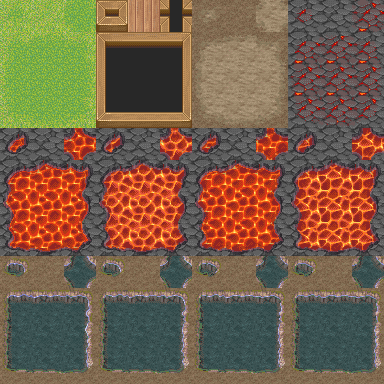
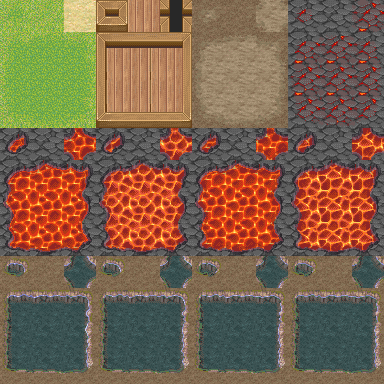
2014/5/30 02:09 commit

Changed region(s): [[0.25, 0.125, 0.5, 0.3125], [0.1562, 0.0, 0.25, 0.0938]]

diff --git a/games/rpg_game/map_data.js b/games/rpg_game/map_data.js
@@ -1,38 +1,38 @@
 //圖片標準(每一個36px)
 //背景圖片陣列12X12(每一個36px) 0可通過 1不可通過
 var back_ground = 
-    {"0000":0,"0001":0,"0002":0,"0003":1,"0004":0,"0005":1,"0006":0,"0007":0,"0008":0,"0009":0,"0010":0,"0011":0,
-     "0100":0,"0101":0,"0102":0,"0103":1,"0104":1,"0105":1,"0106":0,"0107":0,"0108":0,"0109":0,"0110":0,"0111":0,
-     "0200":0,"0201":0,"0202":0,"0203":1,"0204":1,"0205":1,"0206":0,"0207":0,"0208":0,"0209":0,"0210":0,"0211":0,
-     "0300":0,"0301":0,"0302":0,"0303":1,"0304":1,"0305":1,"0306":0,"0307":0,"0308":0,"0309":0,"0310":0,"0311":0,
-     "0400":1,"0401":0,"0402":1,"0403":1,"0404":1,"0405":1,"0406":1,"0407":0,"0408":1,"0409":1,"0410":0,"0411":0,
-     "0500":1,"0501":1,"0502":1,"0503":1,"0504":1,"0505":1,"0506":1,"0507":1,"0508":1,"0509":1,"0510":1,"0511":1,
-     "0600":1,"0601":1,"0602":1,"0603":1,"0604":1,"0605":1,"0606":1,"0607":1,"0608":1,"0609":1,"0610":1,"0611":1,
-     "0700":1,"0701":1,"0702":1,"0703":1,"0704":1,"0705":1,"0706":1,"0707":1,"0708":1,"0709":1,"0710":1,"0711":1,
-     "0800":1,"0801":0,"0802":1,"0803":1,"0804":0,"0805":1,"0806":1,"0807":0,"0808":1,"0809":1,"0810":0,"0811":1,
-     "0900":1,"0901":1,"0902":1,"0903":1,"0904":1,"0905":1,"0906":1,"0907":1,"0908":1,"0909":1,"0910":1,"0911":1,
-     "1000":1,"1001":1,"1002":1,"1003":1,"1004":1,"1005":1,"1006":1,"1007":1,"1008":1,"1009":1,"1010":1,"1011":1,
-     "1100":1,"1101":1,"1102":1,"1103":1,"1104":1,"1105":1,"1106":1,"1107":1,"1108":1,"1109":1,"1110":1,"1111":1,
+    {"0000":0,"0100":0,"0200":0,"0300":1,"0400":0,"0500":1,"0600":0,"0700":0,"0800":0,"0900":0,"1000":0,"1100":0,
+     "0001":0,"0101":0,"0201":0,"0301":1,"0401":1,"0501":1,"0601":0,"0701":0,"0801":0,"0901":0,"1001":0,"1101":0,
+     "0002":0,"0102":0,"0202":0,"0302":1,"0402":1,"0502":1,"0602":0,"0702":0,"0802":0,"0902":0,"1002":0,"1102":0,
+     "0003":0,"0103":0,"0203":0,"0303":1,"0403":1,"0503":1,"0603":0,"0703":0,"0803":0,"0903":0,"1003":0,"1103":0,
+     "0004":1,"0104":0,"0204":1,"0304":1,"0404":1,"0504":1,"0604":1,"0704":0,"0804":1,"0904":1,"1004":0,"1104":0,
+     "0005":1,"0105":1,"0205":1,"0305":1,"0405":1,"0505":1,"0605":1,"0705":1,"0805":1,"0905":1,"1005":1,"1105":1,
+     "0006":1,"0106":1,"0206":1,"0306":1,"0406":1,"0506":1,"0606":1,"0706":1,"0806":1,"0906":1,"1006":1,"1106":1,
+     "0007":1,"0107":1,"0207":1,"0307":1,"0407":1,"0507":1,"0607":1,"0707":1,"0807":1,"0907":1,"1007":1,"1107":1,
+     "0008":1,"0108":0,"0208":1,"0308":1,"0408":0,"0508":1,"0608":1,"0708":0,"0808":1,"0908":1,"1008":0,"1108":1,
+     "0009":1,"0109":1,"0209":1,"0309":1,"0409":1,"0509":1,"0609":1,"0709":1,"0809":1,"0909":1,"1009":1,"1109":1,
+     "0010":1,"1110":1,"1210":1,"1310":1,"1410":1,"1510":1,"1610":1,"1710":1,"1810":1,"1910":1,"1010":1,"1110":1,
+     "0011":1,"1111":1,"1211":1,"1311":1,"1411":1,"1511":1,"1611":1,"1711":1,"1811":1,"1911":1,"1011":1,"1111":1,
     }
 
 //地圖25X12(每一個36px)
 //崔斯特姆
-var Tristram = 
+var tristram = 
 	{
         "map_name" : "Tristram/崔斯特姆",
         "map_date" :
             [
-                ["0000","0000","0000","0000","0000","0000","0000","0000","0000","0000","0000","0000","0000","0000","0000","0000","0000","0000","0000","0000","0000","0000","0000","0000","0000",],
-                ["0000","0000","0000","0000","0000","0000","0000","0000","0000","0000","0000","0000","0000","0000","0000","0000","0000","0000","0000","0000","0000","0000","0000","0000","0000",],
-                ["0000","0000","0000","0000","0000","0000","0000","0000","0000","0000","0000","0000","0000","0000","0000","0000","0000","0000","0000","0000","0000","0000","0000","0000","0000",],
-                ["0000","0000","0000","0000","0000","0000","0000","0000","0000","0000","0000","0000","0000","0000","0000","0000","0000","0000","0000","0000","0000","0000","0000","0000","0000",],
-                ["0000","0000","0000","0000","0000","0000","0000","0000","0000","0000","0000","0000","0000","0000","0000","0000","0000","0000","0000","0000","0000","0000","0000","0000","0000",],
-                ["0000","0000","0000","0000","0000","0000","0000","0000","0000","0000","0000","0000","0000","0000","0000","0000","0000","0000","0000","0000","0000","0000","0000","0000","0000",],
-                ["0000","0000","0000","0000","0000","0000","0000","0000","0000","0000","0000","0000","0000","0000","0000","0000","0000","0000","0000","0000","0000","0000","0000","0000","0000",],
-                ["0000","0000","0000","0000","0000","0000","0000","0000","0000","0000","0000","0000","0000","0000","0000","0000","0000","0000","0000","0000","0000","0000","0000","0000","0000",],
-                ["0000","0000","0000","0000","0000","0000","0000","0000","0000","0000","0000","0000","0000","0000","0000","0000","0000","0000","0000","0000","0000","0000","0000","0000","0000",],
-                ["0000","0000","0000","0000","0000","0000","0000","0000","0000","0000","0000","0000","0000","0000","0000","0000","0000","0000","0000","0000","0000","0000","0000","0000","0000",],
-                ["0000","0000","0000","0000","0000","0000","0000","0000","0000","0000","0000","0000","0000","0000","0000","0000","0000","0000","0000","0000","0000","0000","0000","0000","0000",],
+                ["0000","0301","0401","0401","0401","0401","0401","0501","0000","0000","0000","0000","0000","0000","0000","0000","0301","0401","0401","0401","0401","0401","0501","0000","0000",],
+                ["0000","0302","0400","0400","0400","0400","0400","0502","0000","0000","0000","0000","0000","0000","0000","0000","0302","0400","0400","0400","0400","0400","0502","0000","0000",],
+                ["0000","0302","0400","0400","0400","0400","0400","0502","0000","0000","0000","0000","0000","0000","0000","0000","0302","0400","0400","0400","0400","0400","0502","0000","0000",],
+                ["0000","0302","0400","0400","0400","0400","0400","0502","0000","0000","0000","0000","0000","0000","0000","0000","0302","0400","0400","0400","0400","0400","0502","0000","0000",],
+                ["0000","0302","0400","0400","0400","0400","0400","0502","0000","0000","0000","0000","0000","0000","0000","0000","0302","0400","0400","0400","0400","0400","0502","0000","0000",],
+                ["0000","0303","0403","0403","0400","0403","0403","0503","0000","0000","0000","0000","0000","0000","0000","0000","0303","0403","0403","0400","0403","0403","0503","0000","0000",],
+                ["0000","0000","0000","0000","0200","0000","0000","0000","0000","0000","0000","0000","0000","0000","0000","0000","0000","0000","0000","0200","0000","0000","0000","0000","0000",],
+                ["0000","0000","0000","0000","0200","0000","0000","0000","0000","0000","0000","0000","0000","0000","0000","0000","0000","0000","0000","0200","0000","0000","0000","0000","0000",],
+                ["0300","0000","0000","0000","0200","0000","0000","0000","0000","0000","0000","0000","0000","0000","0000","0000","0000","0000","0000","0200","0000","0000","0000","0000","0000",],
+                ["0200","0200","0200","0200","0200","0200","0200","0200","0200","0200","0200","0200","0200","0200","0200","0200","0200","0200","0200","0200","0000","0000","0000","0000","0000",],
+                ["0300","0000","0000","0000","0000","0000","0000","0000","0000","0000","0000","0000","0000","0000","0000","0000","0000","0000","0000","0000","0000","0000","0000","0000","0000",],
                 ["0000","0000","0000","0000","0000","0000","0000","0000","0000","0000","0000","0000","0000","0000","0000","0000","0000","0000","0000","0000","0000","0000","0000","0000","0000",],
             ]
     }

diff --git a/games/rpg_game/map_build.js b/games/rpg_game/map_build.js
@@ -4,28 +4,36 @@ function draw_map() {
     var back_ground = document.getElementById("back_ground");
     //每個區塊為32x32
     var block = 32;
-    var i,j,str_i,str_j
-    
-    for(i = 0; i < 25; i++ ) {
-        for (j = 0; j < 12; j++ ) {
-            //補0 exp 0012
+    //跑迴圈組地圖
+	var i,j
+	//迴圈轉字串 組成值傳到 back_ground 取得是否可通行的資料
+	var str_i,str_j
+    //字串轉數字 取得切圖的資料
+	var int_i,int_j
+	
+    for(i = 0; i < 25; i++ ) {       //x軸
+        for (j = 0; j < 12; j++ ) {  //y軸
+            //補0 i exp 0012
             if (i < 10) {
                 str_i = "0"+i;
             }
             else {
                 str_i = ""+i;
             }
-            
+            //補0 j
             if (j < 10) {
                 str_j = "0"+j; 
             }
             else {
                 str_j = ""+j;
             }
-            
-            //alert(str_i+str_j);
+			//取得資料
+			int_i = parseInt(tristram["map_date"][j][i].substr(0,2));
+			int_j = parseInt(tristram["map_date"][j][i].substr(2,2));
+			
+			//alert("back_ground:"+str_i+str_j+"\n x:"+int_i+"y"+int_j);
             //畫地圖
-             ground_pass_area.drawImage(back_ground, 0*block, 0*block, block, block, i*block, j*block, block, block);
+            ground_pass_area.drawImage(back_ground, int_i*block, int_j*block, block, block, i*block, j*block, block, block);
         }
     }
 }

diff --git a/games/rpg_game/index.html b/games/rpg_game/index.html
@@ -4,7 +4,6 @@
 	<meta charset="UTF-8">
 	<meta name="viewport" content="width=device-width, initial-scale=1.0, maximum-scale=1.0">
 	<title>rpg_game_01</title>
-    <script type="text/javascript" src="http://code.jquery.com/jquery-latest.min.js"></script>
 </head>
 <body>
 <style>
@@ -15,8 +14,8 @@
     <img src="pic/role_02.png" id = "role_02"/>
     <img src="pic/back_ground.png" id = "back_ground"/>
 </div>
-<div style="width:800px; margin: 0 auto; border: 1px solid black">
-    <div style="width:800px; height:384px;border:1px solid black">  <!--多層canvas-->
+<div style="width:800px; margin: 0 auto; border: 3px solid black">
+    <div style="width:800px; height:384px;">  <!--多層canvas-->
         <canvas id="ground_wall" width="800" height="384" style="position: absolute; z-index: 2"></canvas>
         <canvas id="mian" width="800" height="384" style="position: absolute; z-index: 1"></canvas>
         <canvas id="ground_pass" width="800" height="384" style="position: absolute; z-index: 0"></canvas>
